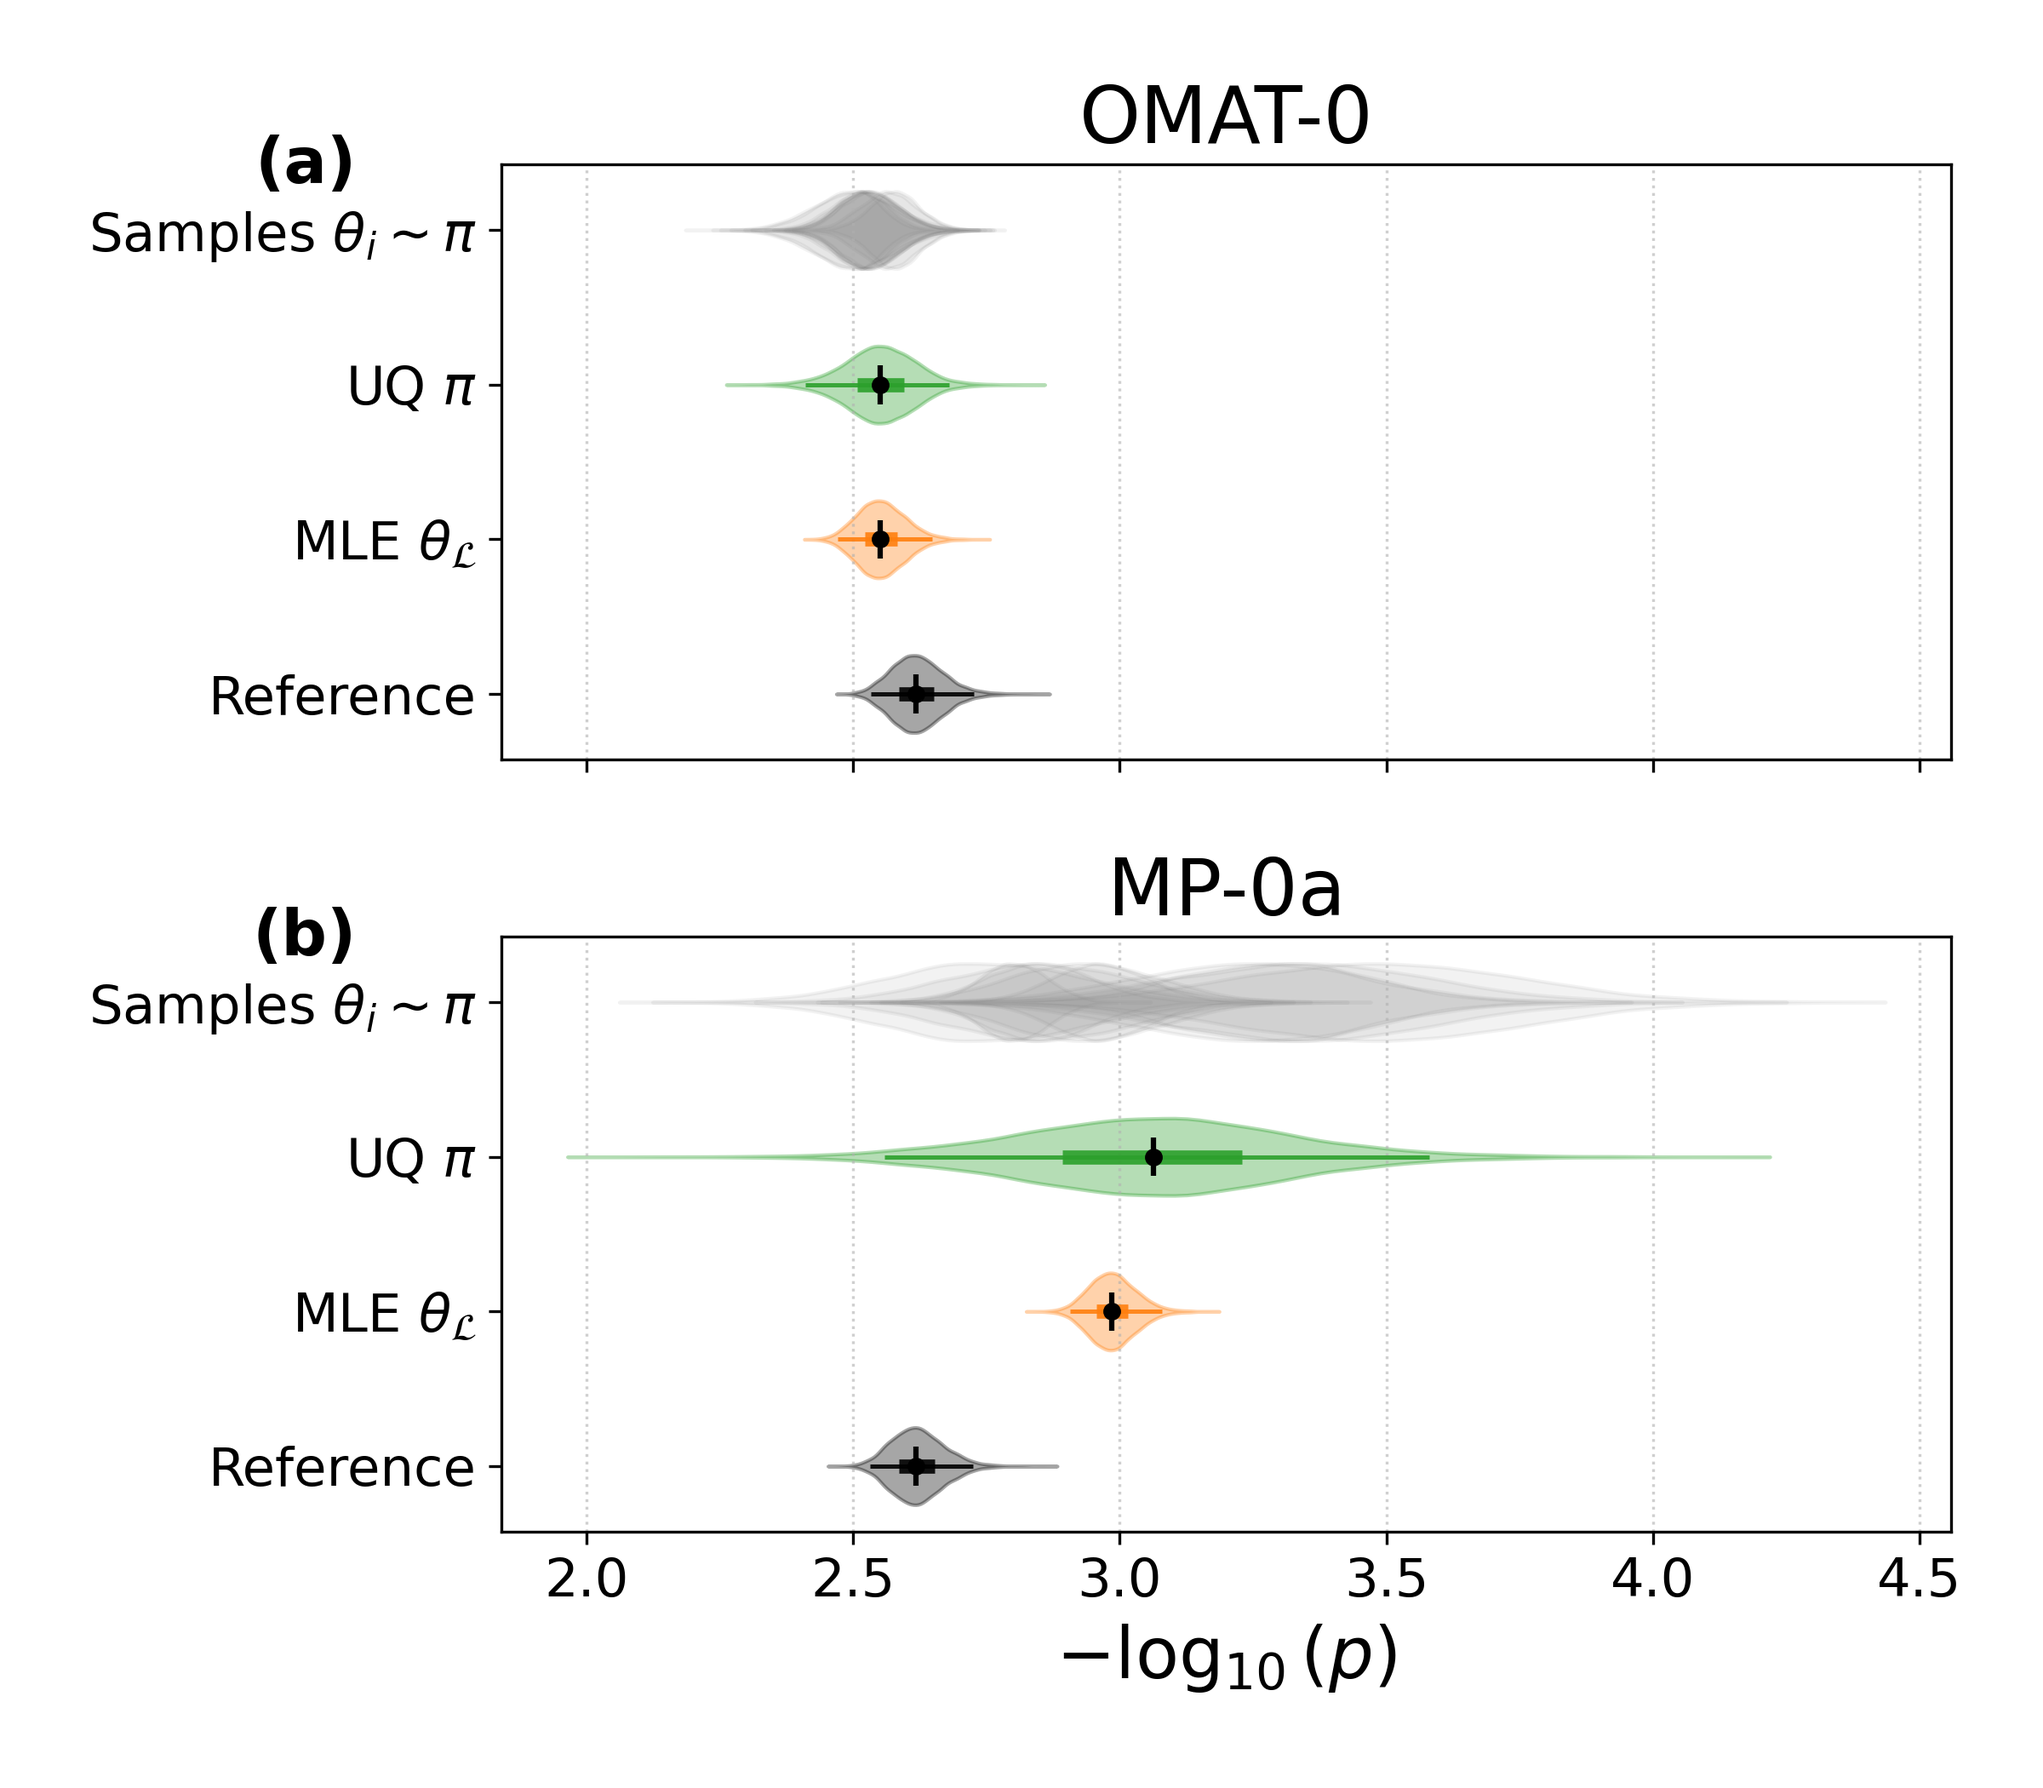
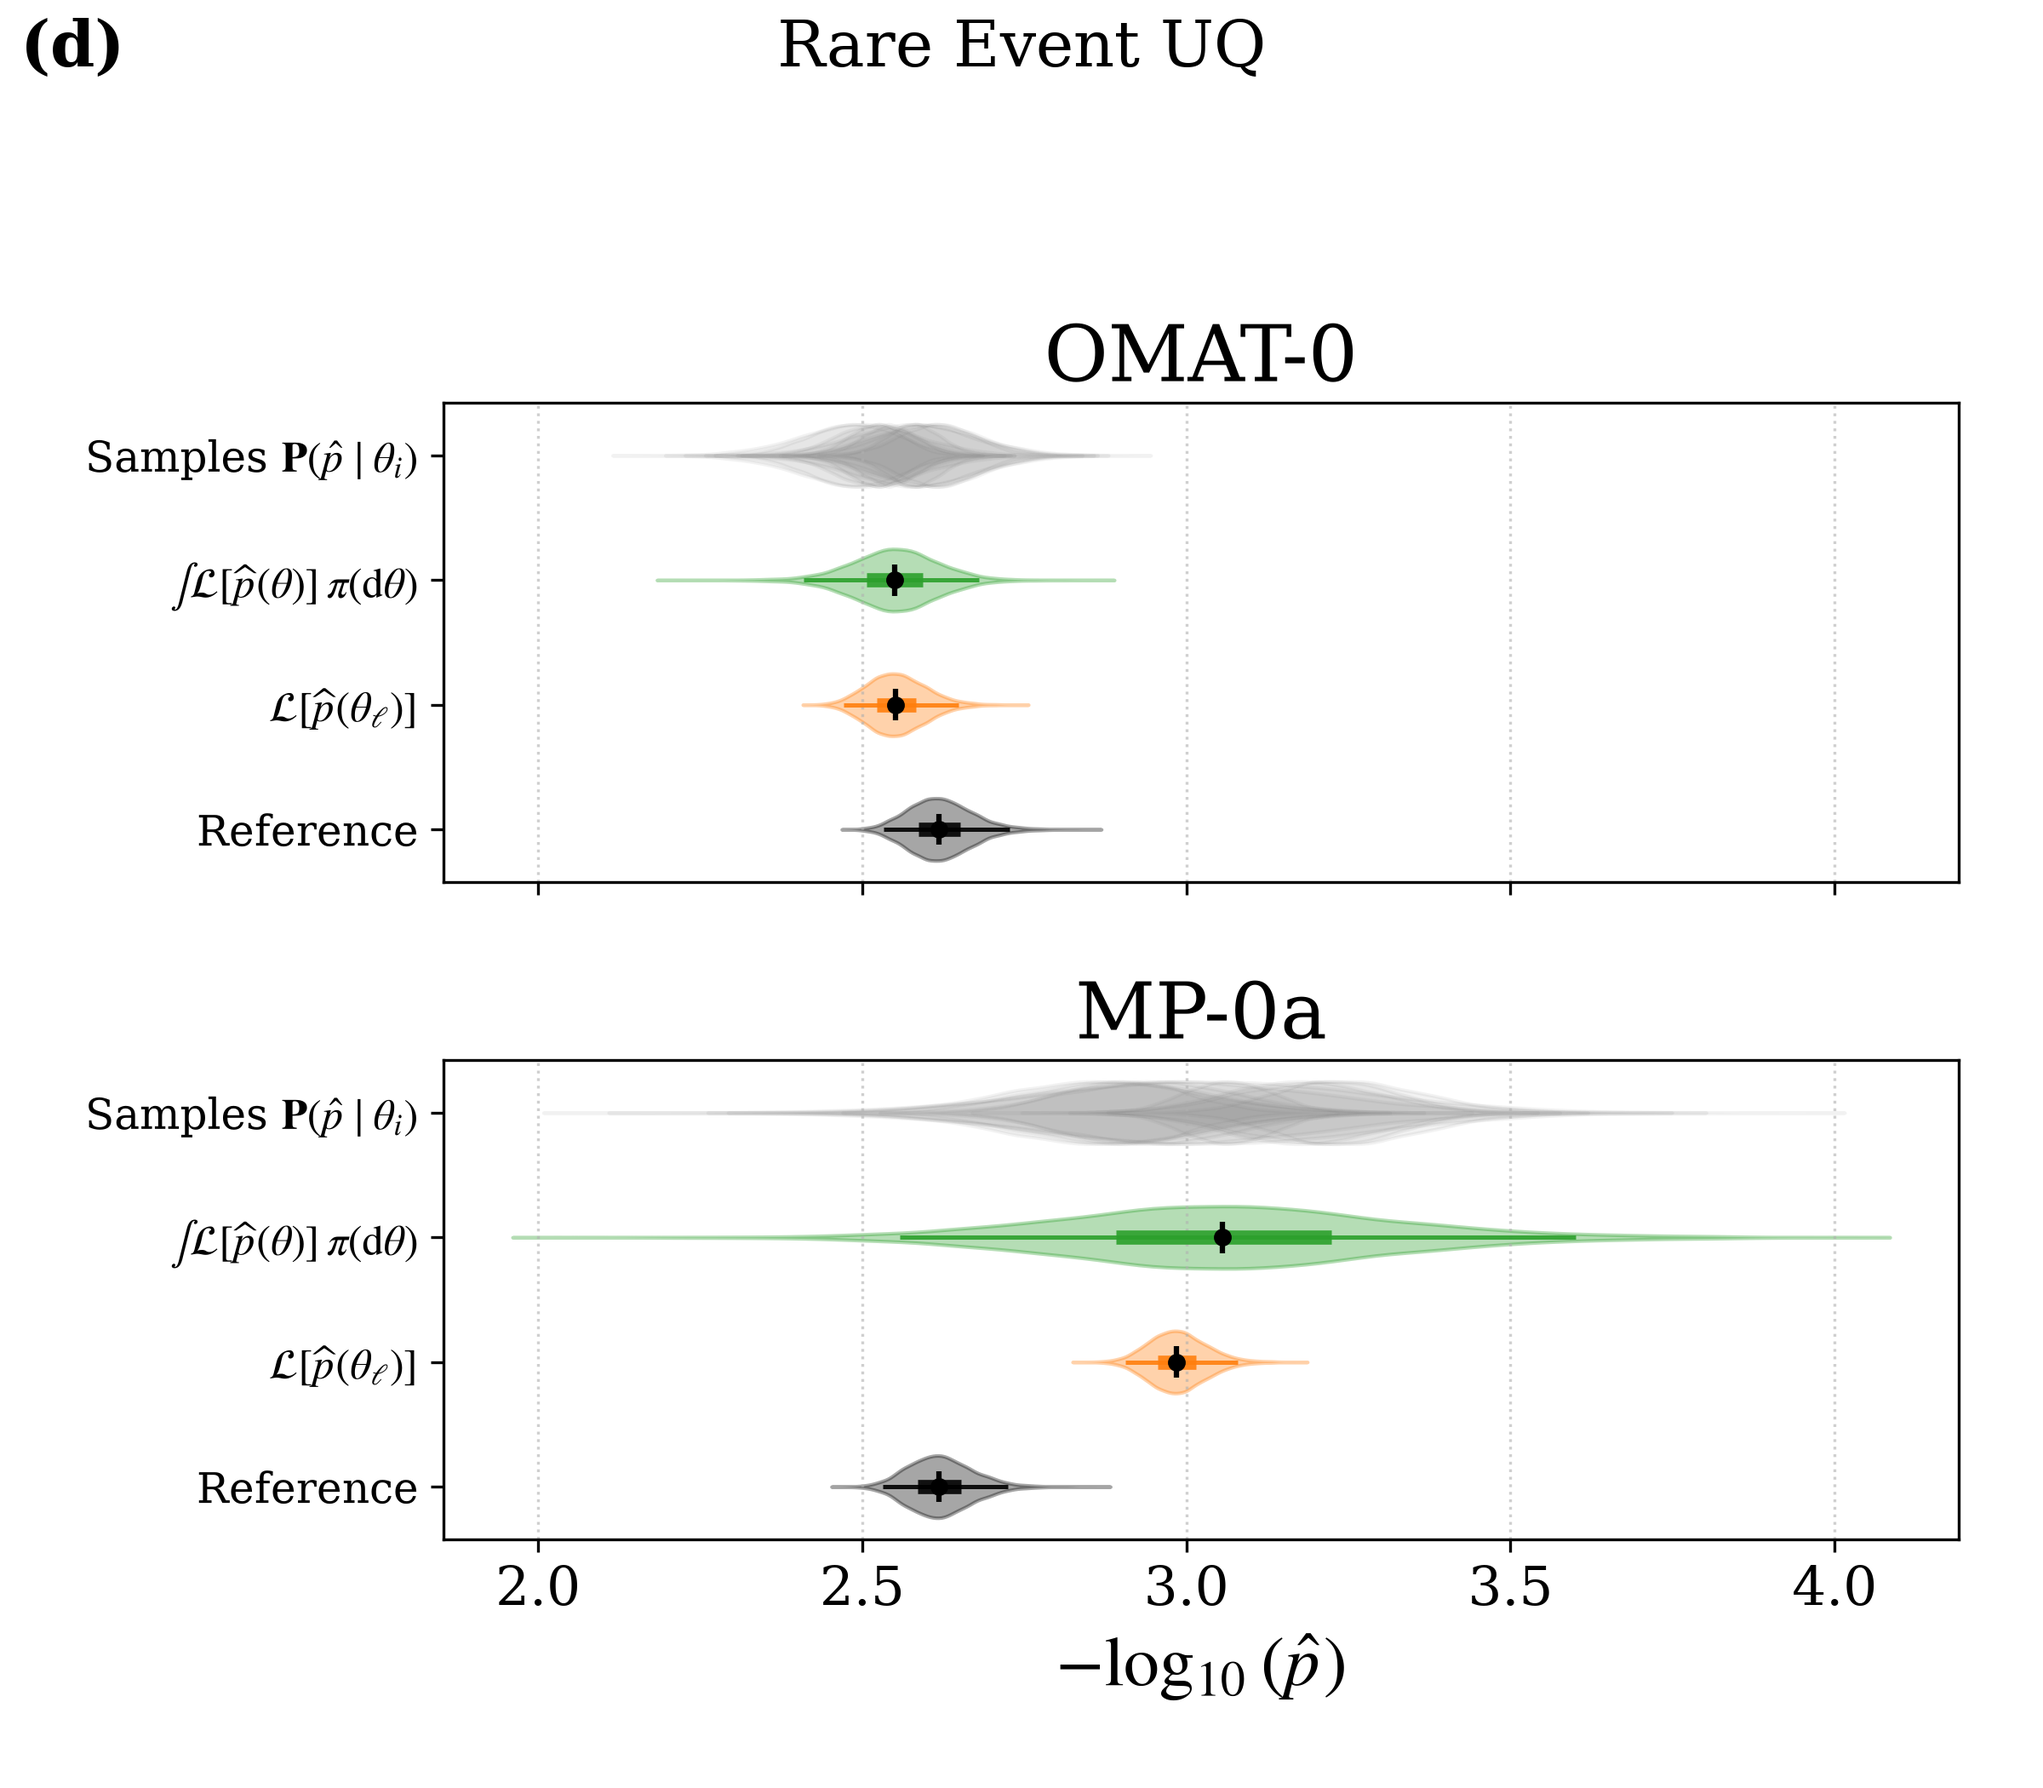
Use publication labels on rare event UQ plots

diff --git a/src/girsanov_uq/utils/utils.py b/src/girsanov_uq/utils/utils.py
@@ -92,6 +92,7 @@ def _draw_raincloud(ax, sample_groups, labels, colors):
     positions = np.arange(len(labels))
     ax.set_yticks(positions, labels=labels)
     ax.set_ylabel("")
+    ax.tick_params(axis="y", labelsize=12)
     ax.set_ylim(len(labels) - 0.5, -0.5)
 
 
@@ -913,13 +914,16 @@ def compute_probability_violin(scores, model_probs, thetas_sample, fims=None, re
 
     model_samples = rng.normal(mean_prob, sigma_model, size=n_samples)
     sample_groups = [rho_pi_samples, model_samples]
-    labels = [r'UQ $\int \mathbf{P}(\hat p \mid \theta)\pi(\mathrm{d}\theta)$', r' MLE $\mathbf{P}(\hat p \mid \theta_\mathcal{L})$']
+    labels = [
+        r'$\int \mathcal{L}[\widehat p(\theta)]\,\pi(\mathrm{d}\theta)$',
+        r'$\mathcal{L}[\widehat p(\theta_\ell)]$',
+    ]
     colors = ["tab:green", "tab:orange"]
 
     if ref_probs is not None:
         ref_samples = rng.normal(mean_prob_ref, sigma_model_ref, size=n_samples)
         sample_groups.append(ref_samples)
-        labels.append(r'Reference $\mathbf{P}(\hat p_\mathrm{ref})$')
+        labels.append('Reference')
         colors.append("black")
 
     sample_groups = [
@@ -986,6 +990,7 @@ def compute_probability_violin(scores, model_probs, thetas_sample, fims=None, re
 
         ax.set_yticks(np.r_[theta_position, positions])
         ax.set_yticklabels([r'Samples $\mathbf{P}(\hat p \mid \theta_i )$'] + labels)
+        ax.tick_params(axis='y', labelsize=12)
     ax.set_xlabel(xlabel)
     ax.grid(True, axis='x', linestyle=':', alpha=0.6)
 

diff --git a/scripts/AMS_butane/plots/visualize_reweighting_violin.py b/scripts/AMS_butane/plots/visualize_reweighting_violin.py
@@ -45,10 +45,10 @@ for i, model in enumerate(models):
 axs[0].set_title('OMAT-0')
 axs[1].set_title('MP-0a')
 axs[0].set_xlabel('')
-axs[0].text(-0.1, 1.05, '(a)', transform=axs[0].transAxes, fontsize=18, fontweight='bold', va='top', ha='right')
-axs[1].text(-0.1, 1.05, '(b)', transform=axs[1].transAxes, fontsize=18, fontweight='bold', va='top', ha='right')
+fig.suptitle('Rare Event UQ', fontsize=18, y=0.99)
+fig.text(0.01, 0.99, '(d)', fontsize=18, fontweight='bold', va='top', ha='left')
 
-fig.tight_layout()
+fig.tight_layout(rect=(0, 0, 1, 0.95))
 output_dir = Path(f'{temperature}K')
 if args.style == "raincloud":
     output_dir /= "raincloud"
